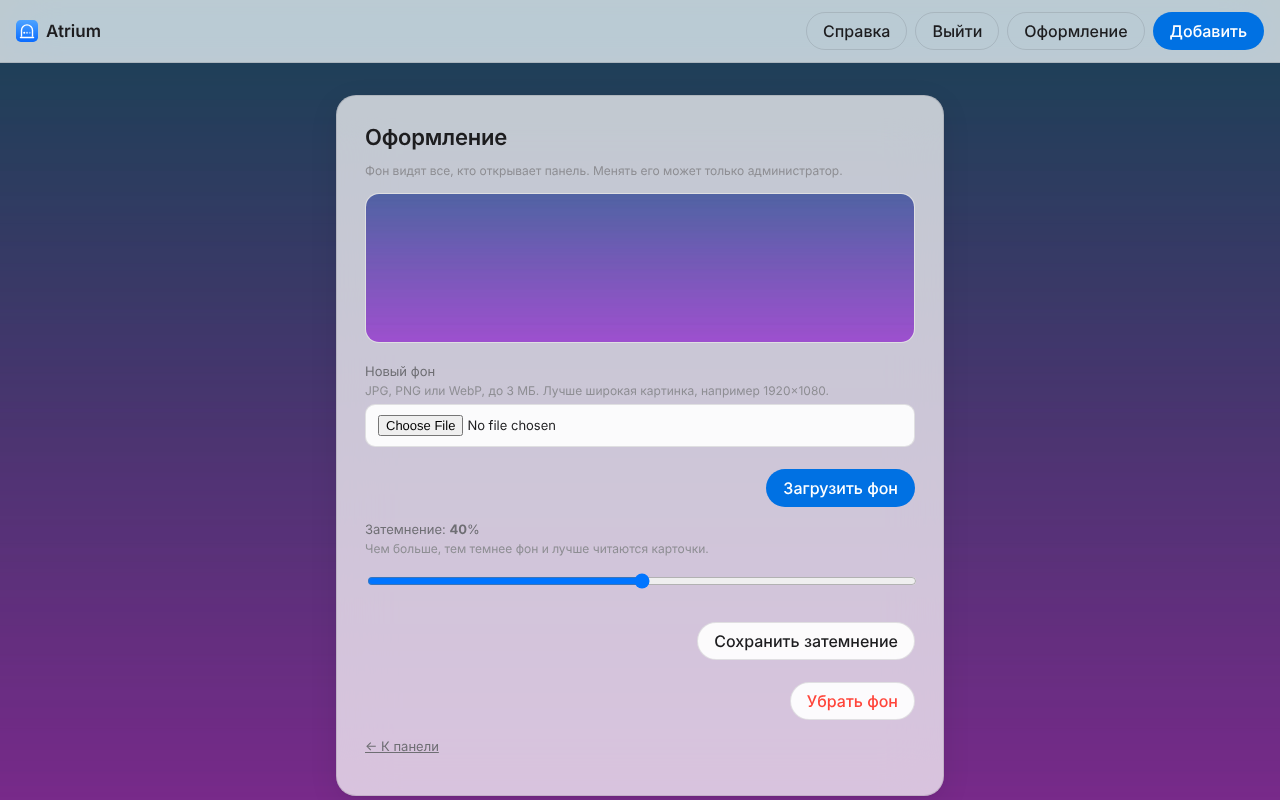
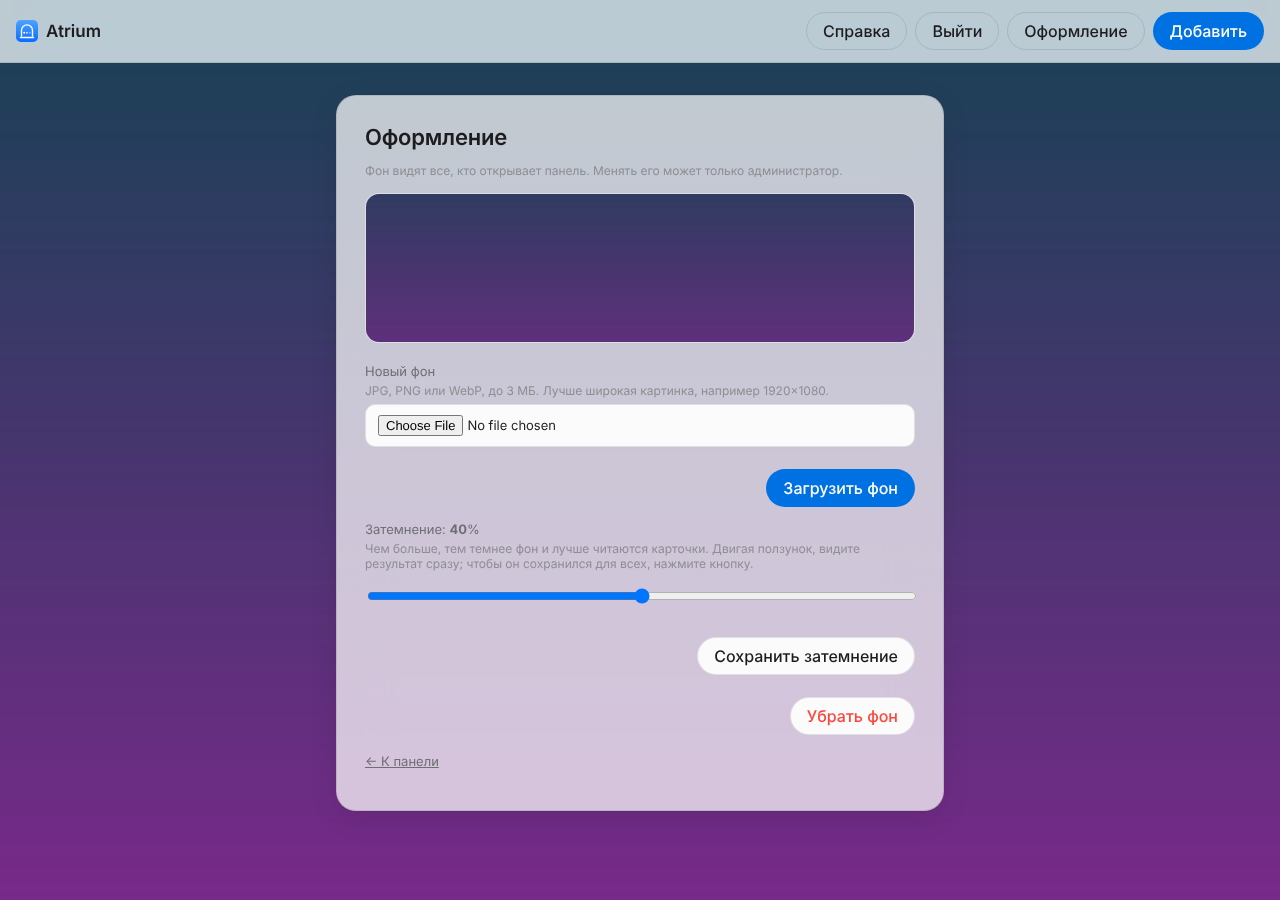
Пароль администратора вместо PIN (не меньше 9 знаков), живое затемнение фона
- вход по паролю: до 128 знаков, латиница, цифры и знаки; пробелы не обрезаются
- простые пароли отклоняются; старый хеш pin_hash продолжает работать
- команда: flask set-password (вместо set-pin)
- на странице оформления ползунок затемнения меняет фон сразу, до сохранения
- обновлены скриншоты входа, справки и оформления

Changed region(s): [[0.0, 0.0, 1.0, 1.0]]

diff --git a/app/templates/login.html b/app/templates/login.html
@@ -2,14 +2,14 @@
 {% block body %}
 <main class="form-wrap">
   <form class="sheet" method="post" action="{{ url_for('login') }}">
-    <h2>Вход по PIN</h2>
-    <p class="hint">Просматривать панель может любой, кто в этой сети. PIN нужен, чтобы добавлять, менять и удалять сервисы.</p>
-    {% if pin_set %}
+    <h2>Вход администратора</h2>
+    <p class="hint">Просматривать панель может любой, кто в этой сети. Пароль администратора нужен, чтобы добавлять, менять и удалять сервисы.</p>
+    {% if pass_set %}
     <input type="hidden" name="_csrf" value="{{ csrf_token() }}">
     <input type="hidden" name="next" value="{{ next }}">
-    <label>PIN (9 цифр)
-      <input name="pin" type="password" inputmode="numeric" autocomplete="off"
-             pattern="[0-9 ]{9,11}" maxlength="11" required autofocus>
+    <label>Пароль администратора
+      <input name="password" type="password" autocomplete="current-password"
+             minlength="9" maxlength="128" required autofocus>
     </label>
     <div class="form-actions">
       <a class="btn" href="{{ url_for('index') }}">Назад</a>
@@ -17,8 +17,8 @@
       <button type="submit" class="btn primary">Войти</button>
     </div>
     {% else %}
-    <p class="notice warn">PIN ещё не задан. Администратор задаёт его на сервере командой:</p>
-    <pre class="cmd">podman exec -it atrium flask set-pin</pre>
+    <p class="notice warn">Пароль администратора ещё не задан. Администратор задаёт его на сервере командой:</p>
+    <pre class="cmd">podman exec -it atrium flask set-password</pre>
     <div class="form-actions">
       <a class="btn" href="{{ url_for('index') }}">Назад</a>
     </div>

diff --git a/app/templates/help.html b/app/templates/help.html
@@ -34,7 +34,7 @@
   <section>
     <h2>Пошагово</h2>
     <ol>
-      <li>Нажмите «Войти» и введите PIN. Без входа панель только показывает сервисы.</li>
+      <li>Нажмите «Войти» и введите пароль администратора. Без входа панель только показывает сервисы.</li>
       <li>Нажмите «Добавить». Заполните название, адрес (короткое имя латиницей) и группу.</li>
       <li>Укажите Backend: адрес и порт, где сервис реально слушает. Затем выберите схему: как он отвечает, по http или по https.</li>
       <li>Нажмите «Проверить бэкенд». Ответ <code>HTTP 200</code>, <code>401</code> или <code>403</code> значит, что сервис отвечает.</li>
@@ -109,8 +109,8 @@
   </section>
 
   <section>
-    <h2>Вход и PIN</h2>
-    <p>PIN из 9 цифр задаёт администратор на сервере командой <code>podman exec -it atrium flask set-pin</code>. Хранится только хеш. После пяти неверных попыток вход блокируется на 15 минут.</p>
+    <h2>Вход и пароль администратора</h2>
+    <p>Пароль администратора задаётся на сервере командой <code>podman exec -it atrium flask set-password</code>. Не меньше 9 знаков, до 128, латинские буквы, цифры и знаки. Хранится только хеш. После пяти неверных попыток вход блокируется на 15 минут.</p>
   </section>
 </main>
 {% endblock %}

diff --git a/app/templates/appearance.html b/app/templates/appearance.html
@@ -6,7 +6,7 @@
     <p class="hint">Фон видят все, кто открывает панель. Менять его может только администратор.</p>
 
     <div class="bg-preview">
-      {% if bg %}<img src="{{ bg.url }}" alt="Текущий фон">{% else %}<span>Фон не задан, используется стандартный</span>{% endif %}
+      {% if bg %}<img src="{{ bg.url }}" alt="Текущий фон"><span class="bg-preview-dim"></span>{% else %}<span>Фон не задан, используется стандартный</span>{% endif %}
     </div>
 
     <form method="post" action="{{ url_for('appearance_upload') }}" enctype="multipart/form-data">
@@ -24,9 +24,9 @@
     <form method="post" action="{{ url_for('appearance_settings') }}">
       <input type="hidden" name="_csrf" value="{{ csrf_token() }}">
       <label>Затемнение: <b id="dim-out">{{ dim }}</b>%
-        <small>Чем больше, тем темнее фон и лучше читаются карточки.</small>
+        <small>Чем больше, тем темнее фон и лучше читаются карточки. Двигая ползунок, видите результат сразу; чтобы он сохранился для всех, нажмите кнопку.</small>
         <input type="range" name="dim" min="0" max="80" step="5" value="{{ dim }}"
-               oninput="document.getElementById('dim-out').textContent = this.value">
+               oninput="document.getElementById('dim-out').textContent = this.value; document.body.style.setProperty('--bg-dim', this.value / 100)">
       </label>
       <div class="form-actions">
         <span class="spacer"></span>

diff --git a/app/templates/index.html b/app/templates/index.html
@@ -4,7 +4,7 @@
 {% endblock %}
 {% block body %}
 {% if not is_admin %}
-<p class="notice readonly">Режим просмотра. {% if pin_set %}<a href="{{ url_for('login', next=request.path) }}">Войдите по PIN</a>, чтобы добавлять и менять сервисы.{% else %}PIN ещё не задан, редактирование закрыто.{% endif %}</p>
+<p class="notice readonly">Режим просмотра. {% if pass_set %}<a href="{{ url_for('login', next=request.path) }}">Войдите</a> с паролем администратора, чтобы добавлять и менять сервисы.{% else %}Пароль администратора ещё не задан, редактирование закрыто.{% endif %}</p>
 {% endif %}
 <main class="layout">
   <nav class="sidebar" aria-label="Группы">

diff --git a/app/static/app.css b/app/static/app.css
@@ -290,6 +290,8 @@ body.has-bg::after {
   border: 1px solid var(--border); background: var(--surface-strong); color: var(--text3);
   display: flex; align-items: center; justify-content: center; font-size: 13px; }
 .bg-preview img { width: 100%; height: 100%; object-fit: cover; display: block; }
+.bg-preview { position: relative; }
+.bg-preview-dim { position: absolute; inset: 0; pointer-events: none; background: rgba(0, 0, 0, var(--bg-dim, .4)); }
 .sheet form { margin: 0 0 6px; }
 .sheet .back { margin-top: 18px; font-size: 13px; }
 .sheet .back a { color: var(--text2); }

diff --git a/app/main.py b/app/main.py
@@ -34,10 +34,14 @@ STATUS_INTERVAL = int(os.environ.get('STATUS_INTERVAL', '30'))
 CADDY_HOST = os.environ.get('CADDY_HOST', 'host.containers.internal')
 CADDY_PORT = int(os.environ.get('CADDY_PORT', '443'))
 
-# Вход администратора по PIN (9 цифр). Хранится только хеш.
+# Вход администратора по паролю (не меньше 9 знаков). Хранится только хеш.
 ADMIN_FILE = Path(os.environ.get('ADMIN_FILE', HOMELAB_DIR / 'admin.json'))
 SECRET_FILE = HOMELAB_DIR / 'secret.key'
-PIN_RE = re.compile(r'^\d{9}$')
+PASS_MIN = 9
+PASS_MAX = 128
+# Самые частые пароли и однотипные строки. Список короткий: длина важнее набора символов.
+PASS_TOO_SIMPLE = {'123456789', '1234567890', '12345678', '123123123', '111111111', '000000000',
+                   'password', 'password1', 'qwerty123', 'qwertyuiop', 'abcdefghi', 'letmein12'}
 LOGIN_MAX_FAILS = 5
 LOGIN_WINDOW = 15 * 60
 
@@ -93,24 +97,39 @@ app.secret_key = _load_secret()
 
 # --- вход администратора -----------------------------------------------------
 
-def _pin_hash() -> str | None:
+def _password_hash() -> str | None:
+    # 'pin_hash' читаем для совместимости: так хранились данные версий с PIN
     try:
-        return json.loads(ADMIN_FILE.read_text(encoding='utf-8')).get('pin_hash')
+        data = json.loads(ADMIN_FILE.read_text(encoding='utf-8'))
     except (OSError, ValueError, AttributeError):
         return None
+    return data.get('password_hash') or data.get('pin_hash')
 
 
-def pin_is_set() -> bool:
-    return bool(_pin_hash())
+def password_is_set() -> bool:
+    return bool(_password_hash())
 
 
-def check_pin(pin: str) -> bool:
-    h = _pin_hash()
-    return bool(h) and bool(PIN_RE.match(pin)) and check_password_hash(h, pin)
+def password_error(pwd: str) -> str | None:
+    """Текст ошибки, если пароль не подходит, иначе None."""
+    if len(pwd) < PASS_MIN:
+        return f'Нужно не меньше {PASS_MIN} знаков.'
+    if len(pwd) > PASS_MAX:
+        return f'Не больше {PASS_MAX} знаков.'
+    if not all(32 <= ord(ch) < 127 for ch in pwd):
+        return 'Используйте латинские буквы, цифры и знаки. Кириллица и невидимые символы плохо набираются на разных устройствах.'
+    if len(set(pwd)) == 1 or pwd.lower() in PASS_TOO_SIMPLE:
+        return 'Такой пароль слишком простой. Придумайте другой.'
+    return None
+
+
+def check_password(pwd: str) -> bool:
+    h = _password_hash()
+    return bool(h) and len(pwd) <= PASS_MAX and check_password_hash(h, pwd)
 
 
 def is_admin() -> bool:
-    return session.get('admin') is True and pin_is_set()
+    return session.get('admin') is True and password_is_set()
 
 
 _fails: dict[str, list[float]] = {}
@@ -157,7 +176,7 @@ def _check_csrf():
 
 @app.context_processor
 def _template_globals():
-    return {'csrf_token': csrf_token, 'is_admin': is_admin(), 'pin_set': pin_is_set(),
+    return {'csrf_token': csrf_token, 'is_admin': is_admin(), 'pass_set': password_is_set(),
             'bg': background_info()}
 
 
@@ -167,28 +186,29 @@ def admin_required(view):
         if is_admin():
             return view(*args, **kwargs)
         if request.path.startswith('/api/'):
-            return jsonify(ok=False, msg='Нужен вход администратора (PIN)'), 401
-        flash('Чтобы менять сервисы, войдите по PIN', 'error')
+            return jsonify(ok=False, msg='Нужен вход администратора (пароль)'), 401
+        flash('Чтобы менять сервисы, войдите по паролю администратора', 'error')
         return redirect(url_for('login', next=request.full_path.rstrip('?')))
     return wrapped
 
 
-@app.cli.command('set-pin')
-def set_pin_cmd():
-    """Задаёт PIN администратора (ровно 9 цифр)."""
+@app.cli.command('set-password')
+def set_password_cmd():
+    """Задаёт пароль администратора (не меньше 9 знаков)."""
     while True:
-        pin = click.prompt('Новый PIN (9 цифр)', hide_input=True)
-        if not PIN_RE.match(pin):
-            click.echo('Нужно ровно 9 цифр, попробуйте ещё раз.')
+        pwd = click.prompt('Новый пароль администратора (не меньше 9 знаков)', hide_input=True)
+        err = password_error(pwd)
+        if err:
+            click.echo(err + ' Попробуйте ещё раз.')
             continue
-        if click.prompt('Повторите PIN', hide_input=True) != pin:
-            click.echo('PIN не совпадает, попробуйте ещё раз.')
+        if click.prompt('Повторите пароль', hide_input=True) != pwd:
+            click.echo('Пароли не совпадают, попробуйте ещё раз.')
             continue
         break
-    ADMIN_FILE.write_text(json.dumps({'pin_hash': generate_password_hash(pin),
+    ADMIN_FILE.write_text(json.dumps({'password_hash': generate_password_hash(pwd),
                                       'updated': int(time.time())}), encoding='utf-8')
     os.chmod(ADMIN_FILE, 0o600)
-    click.echo('PIN сохранён. Старые сессии останутся действительны до конца их срока (8 ч).')
+    click.echo('Пароль сохранён. Старые сессии останутся действительны до конца их срока (8 ч).')
 
 
 # --- хранилище ---------------------------------------------------------------
@@ -598,14 +618,15 @@ def login():
         if _login_blocked(ip):
             flash('Слишком много неверных попыток. Подождите 15 минут.', 'error')
             return render_template('login.html', next=nxt), 429
-        pin = re.sub(r'\s', '', request.form.get('pin', ''))
-        if check_pin(pin):
+        # Пробелы внутри пароля значимы, поэтому строку не обрезаем
+        pwd = request.form.get('password', '')
+        if check_password(pwd):
             _login_reset(ip)
             session.permanent = True
             session['admin'] = True
             return redirect(nxt)
         _login_failed(ip)
-        flash('Неверный PIN', 'error')
+        flash('Неверный пароль', 'error')
         return render_template('login.html', next=nxt), 401
     return render_template('login.html', next=nxt)
 

diff --git a/README.md b/README.md
@@ -12,19 +12,19 @@
 - проверяет бэкенд и сертификат прямо из формы;
 - позволяет поставить фон панели: один для всех.
 
-Редактирование защищено PIN-кодом из 9 цифр. Просмотр открыт всем, кто имеет доступ к панели.
+Редактирование защищено паролем администратора (не меньше 9 знаков). Просмотр открыт всем, кто имеет доступ к панели.
 
 ## Быстрый старт
 
 ```bash
 podman build -t atrium .
 mkdir -p data && cp services.example.yaml data/services.yaml && cp generate.py data/
-podman run --rm -it -v "$PWD/data:/data:z" atrium flask set-pin
+podman run --rm -it -v "$PWD/data:/data:z" atrium flask set-password
 podman run -d --name atrium -p 5000:5000 -v "$PWD/data:/data:z" \
   -e CADDY_IMPORT=/data/Caddyfile.apps atrium
 ```
 
-Откройте `http://localhost:5000`. Для редактирования войдите по PIN.
+Откройте `http://localhost:5000`. Для редактирования войдите с паролем администратора.
 
 Подробности развёртывания: [deploy/README.md](deploy/README.md).
 
@@ -42,7 +42,7 @@ podman run -d --name atrium -p 5000:5000 -v "$PWD/data:/data:z" \
 **Главный экран (администратор).** Плитки с живыми статусами: зелёная — работает, оранжевая — нужен вход, красная — недоступен.
 ![Главный экран](docs/screenshots/overview.png)
 
-**Вход по PIN.** Просмотр доступен без входа, менять сервисы можно только после ввода PIN.
+**Вход администратора.** Просмотр доступен без входа, менять сервисы можно только после ввода пароля администратора.
 ![Вход](docs/screenshots/login.png)
 
 **Редактирование сервиса.** Подсказки у каждого поля, проверка бэкенда до сохранения.

diff --git a/deploy/README.md b/deploy/README.md
@@ -17,13 +17,13 @@ podman build -t localhost/atrium:latest <HOME>/atrium
 
 В `<DATA>` кладём `services.yaml` (за основу берём `services.example.yaml`) и `generate.py` из репозитория.
 
-## 3. PIN администратора
+## 3. Пароль администратора
 
 ```bash
-podman run --rm -it -v <DATA>:/data:z localhost/atrium:latest flask set-pin
+podman run --rm -it -v <DATA>:/data:z localhost/atrium:latest flask set-password
 ```
 
-Хранится только хеш, в `<DATA>/admin.json`.
+Не меньше 9 знаков, до 128, латинские буквы, цифры и знаки. Хранится только хеш, в `<DATA>/admin.json`. Пароль, заданный в предыдущей версии PIN-кодом, продолжит работать без изменений.
 
 ## 4. Запуск
 
